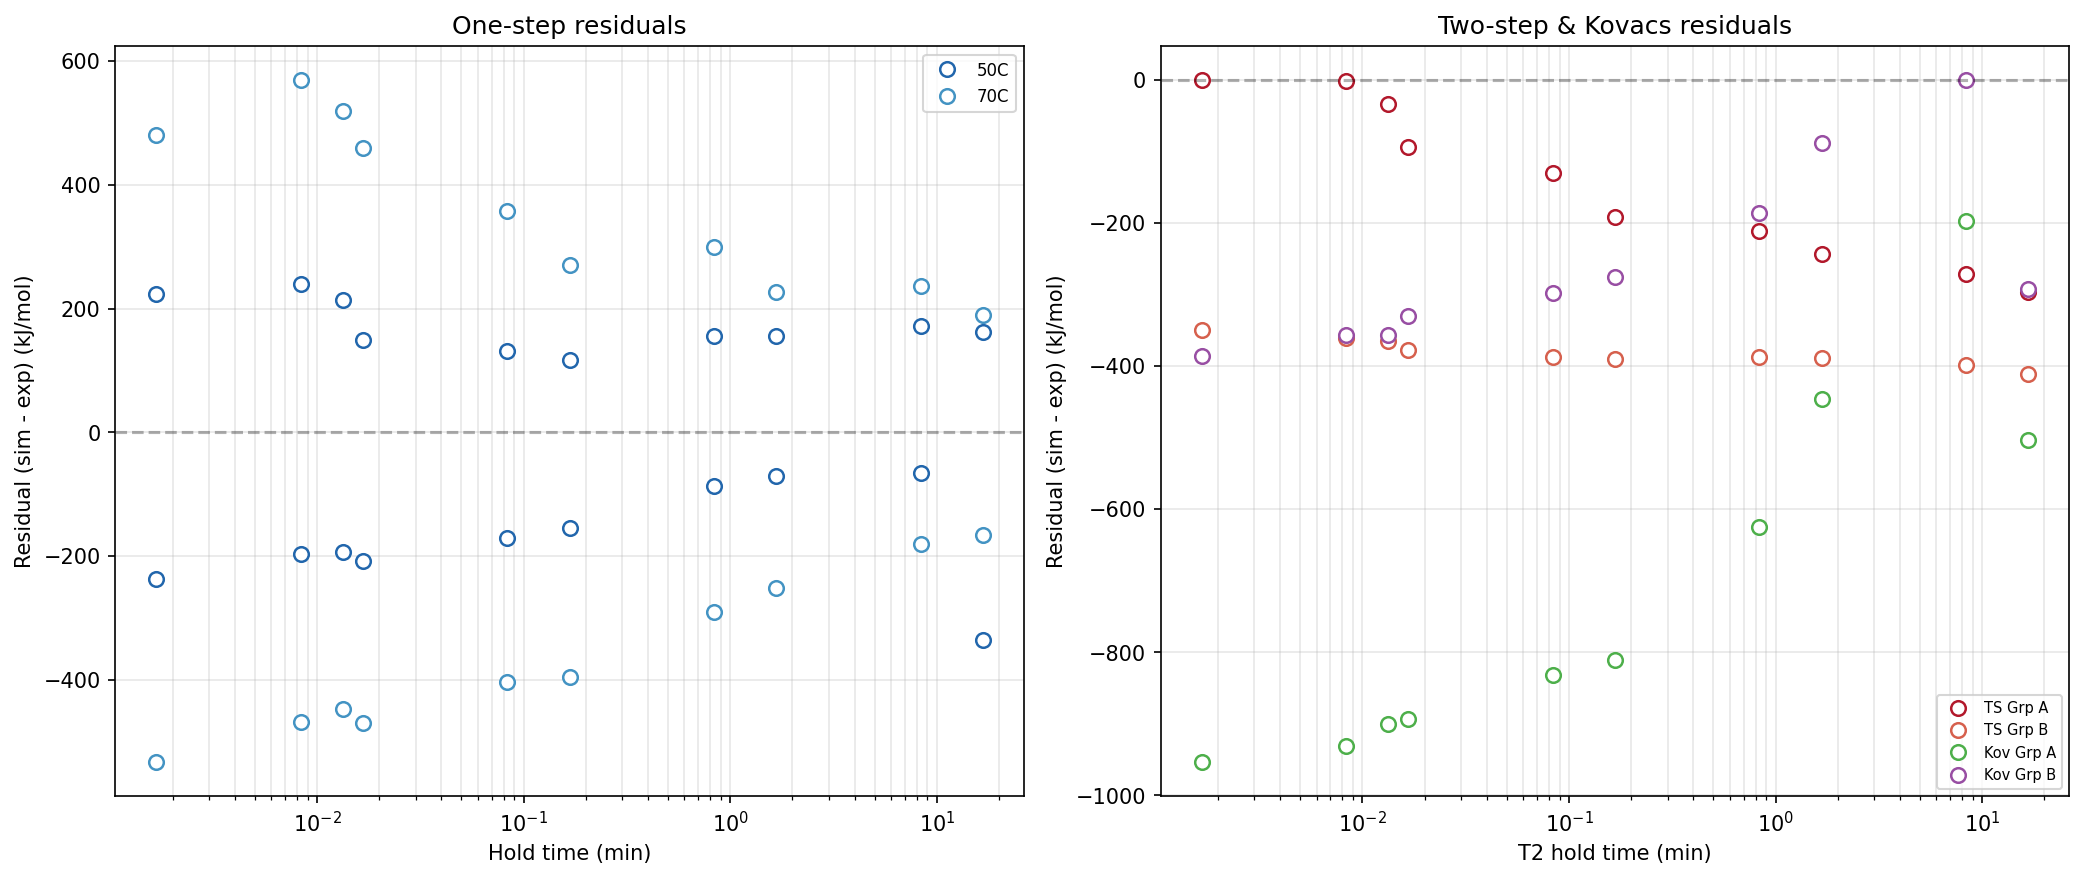
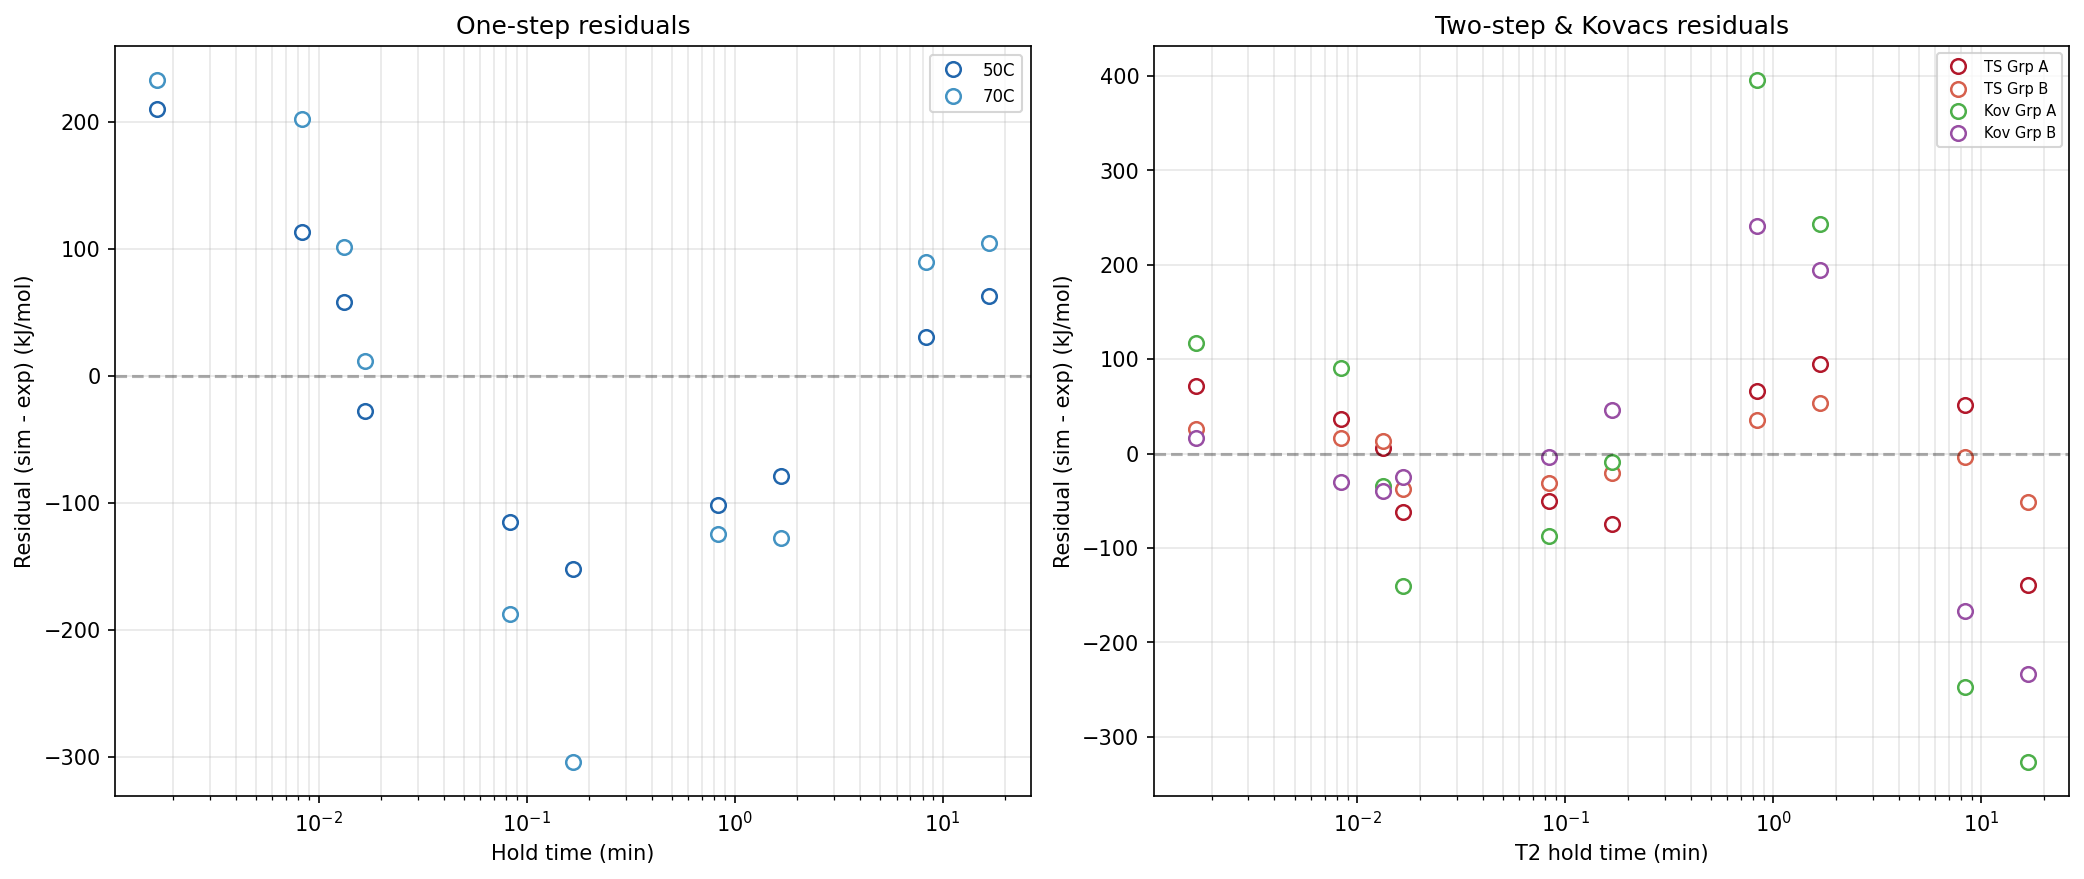
2026-05-14 18:31 - auto commit

diff --git a/src/tnm_error_analysis.py b/src/tnm_error_analysis.py
@@ -57,14 +57,19 @@ def residual_analysis(model, targets, sim_data_kJ):
         'kvA': 'Kovacs Grp A', 'kvB': 'Kovacs Grp B',
     }
 
+    print(f"    sim_data_kJ keys: {list(sim_data_kJ.keys())}")
     all_residuals = []
     for idx, (sim_key, (exp_key, grp_key)) in enumerate(group_map.items()):
+        print(f"    Checking {sim_key}: exp={exp_key}, grp={grp_key}, "
+              f"mask_sum={targets[exp_key]['groups'] == grp_key if exp_key in targets else 'N/A'}")
         ax = axes.flat[idx]
         exp = targets[exp_key]
         mask = exp['groups'] == grp_key
+        if mask.sum() == 0 or sim_key not in sim_data_kJ:
+            continue
         dh_exp = exp['dH'][mask]
         t_exp = exp['t'][mask]
-        dh_sim = sim_data_kJ[sim_key]
+        dh_sim = sim_data_kJ[sim_key][:len(dh_exp)]
 
         residuals = dh_sim - dh_exp
         all_residuals.extend(residuals)
